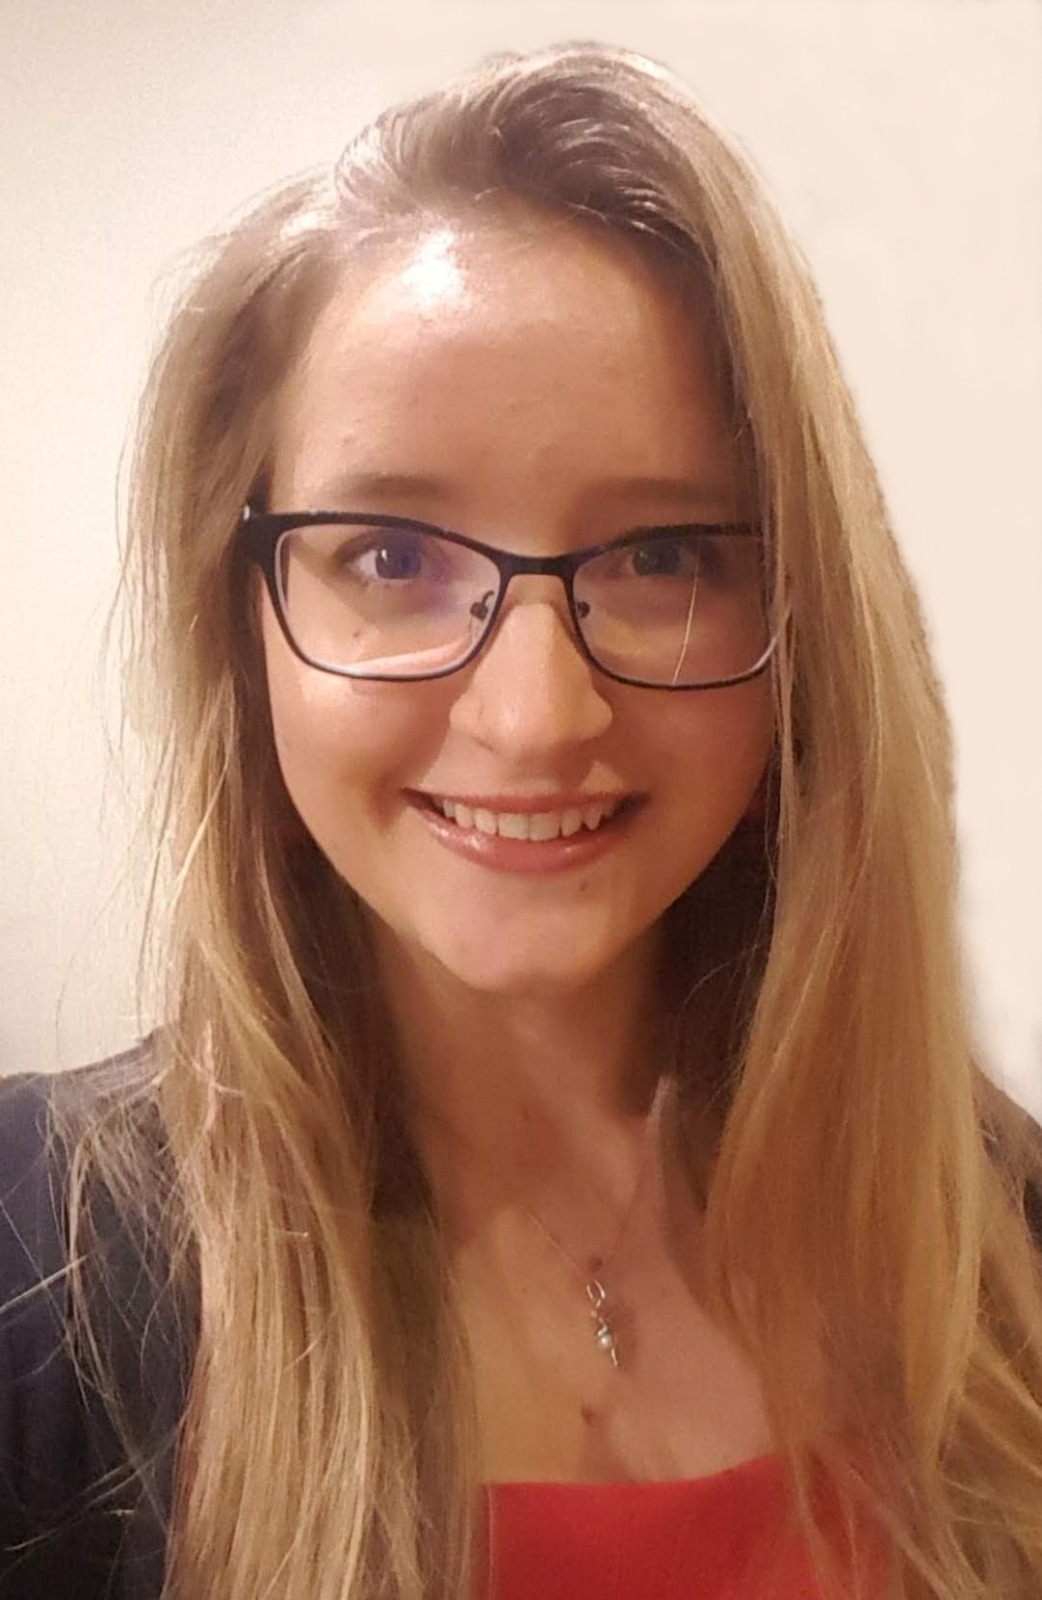
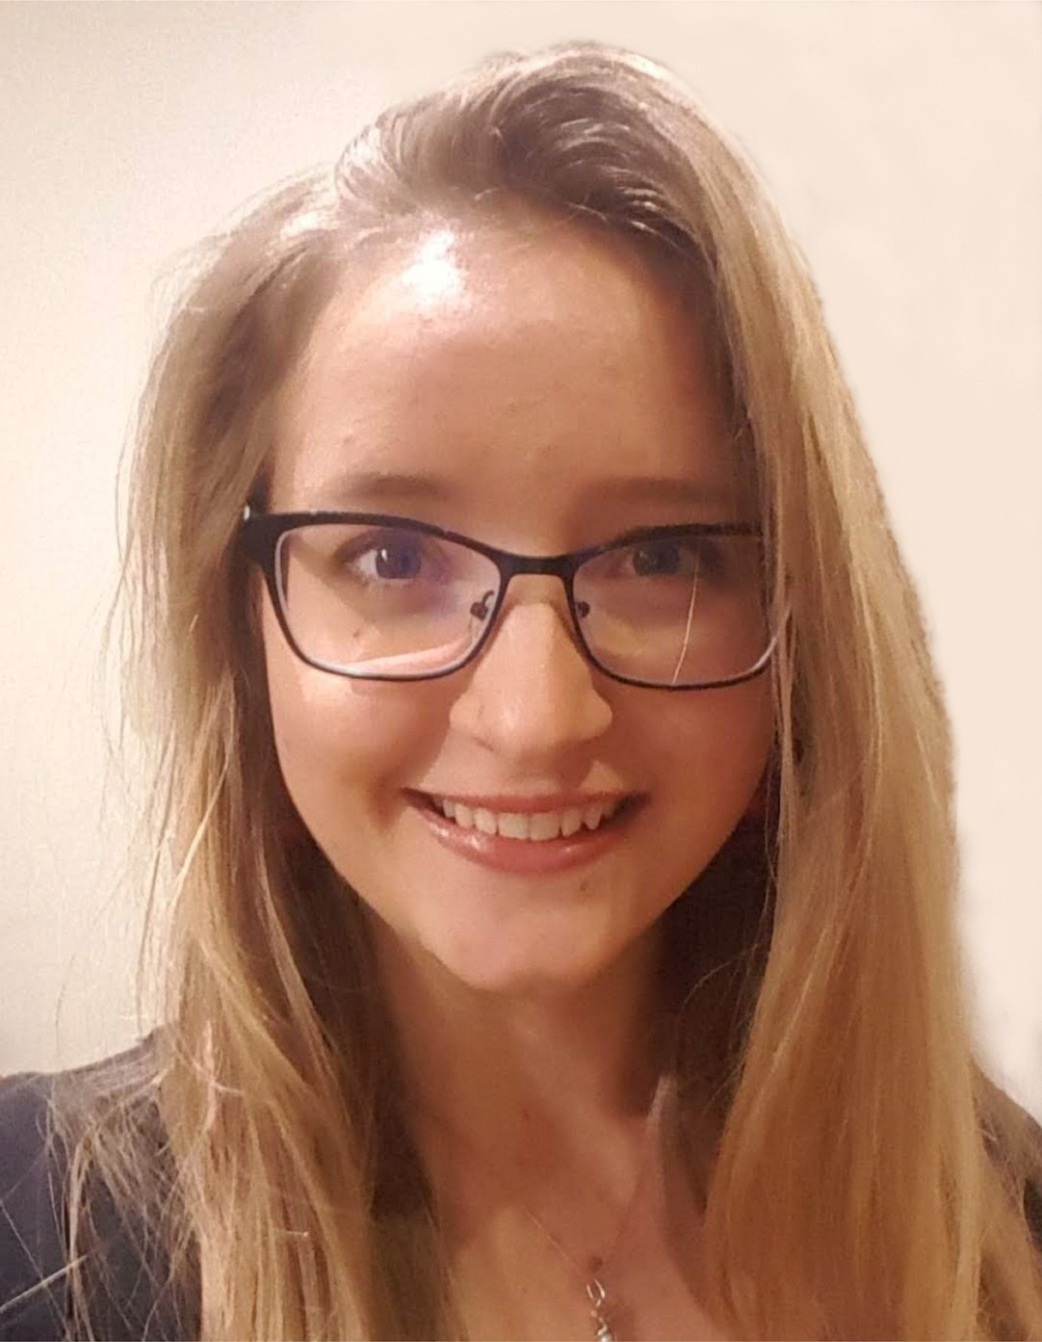
consistent img size

diff --git a/_team/Ueltzen.md b/_team/Ueltzen.md
@@ -2,7 +2,7 @@
 layout: page
 title: Katharina Ueltzen
 description: PhD Candidate
-img: assets/img/Katharina.jpeg
+img: assets/img/Katharina.jpg
 importance: 7
 category: Current members
 ---

diff --git a/_team/Song.md b/_team/Song.md
@@ -2,7 +2,7 @@
 layout: page
 title: Jingrui Song
 description: Student
-img: assets/img/prof_pic.jpg
+img: assets/img/Jingrui.jpeg
 importance:
 category: Students
 ---
